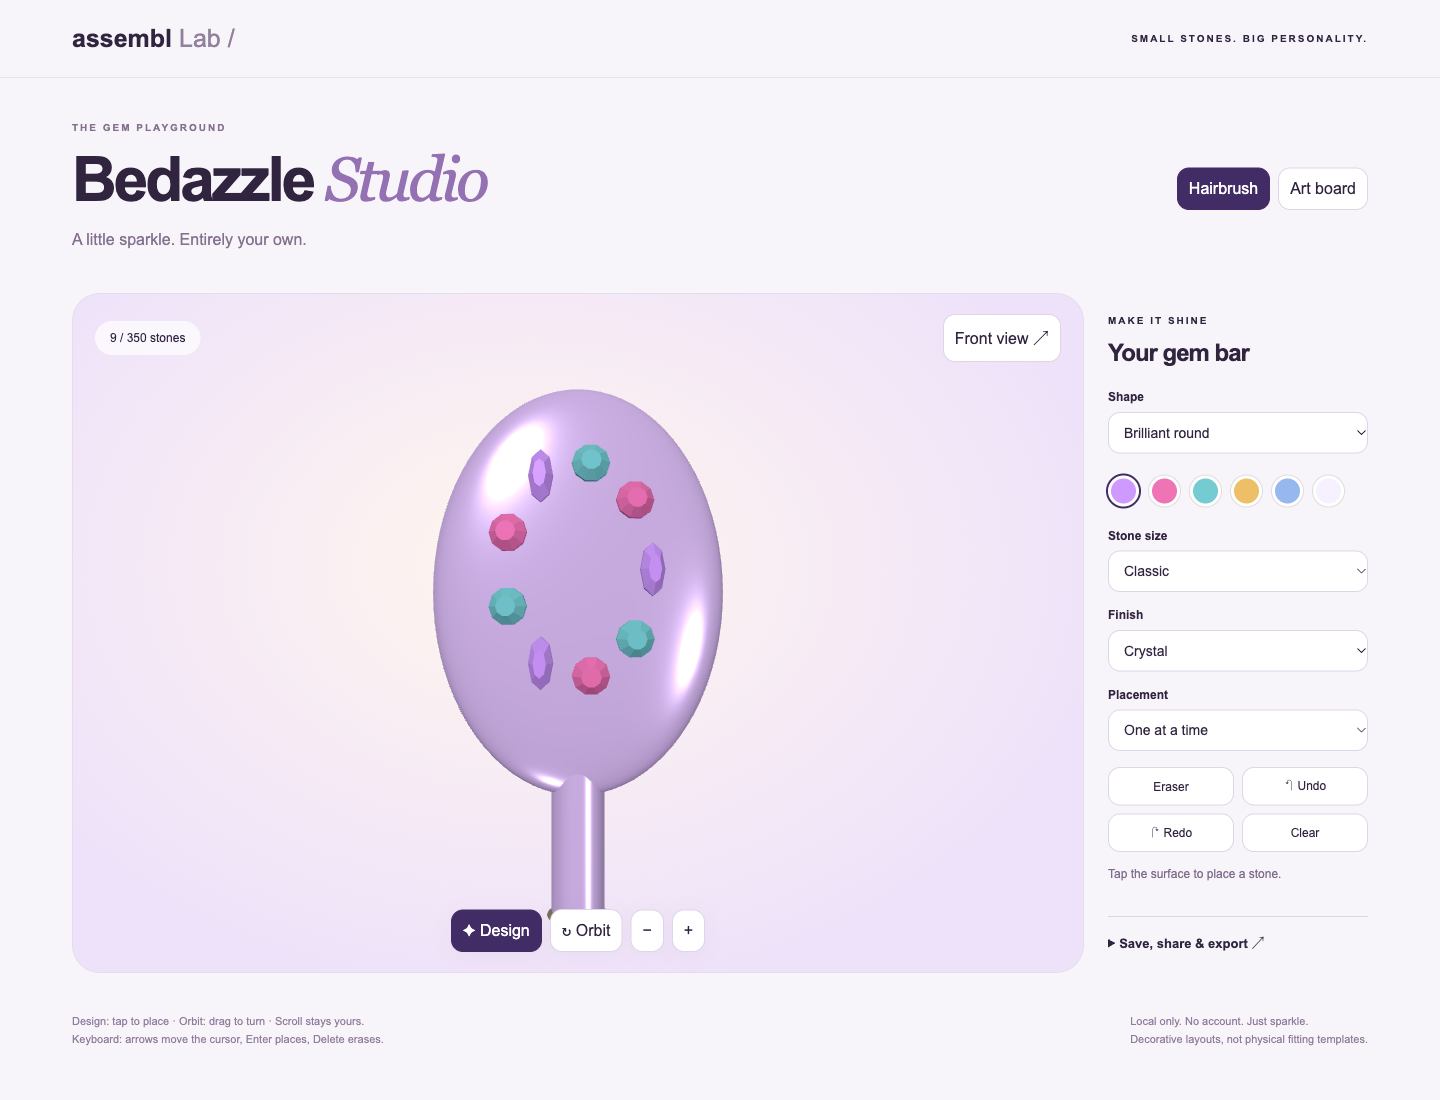
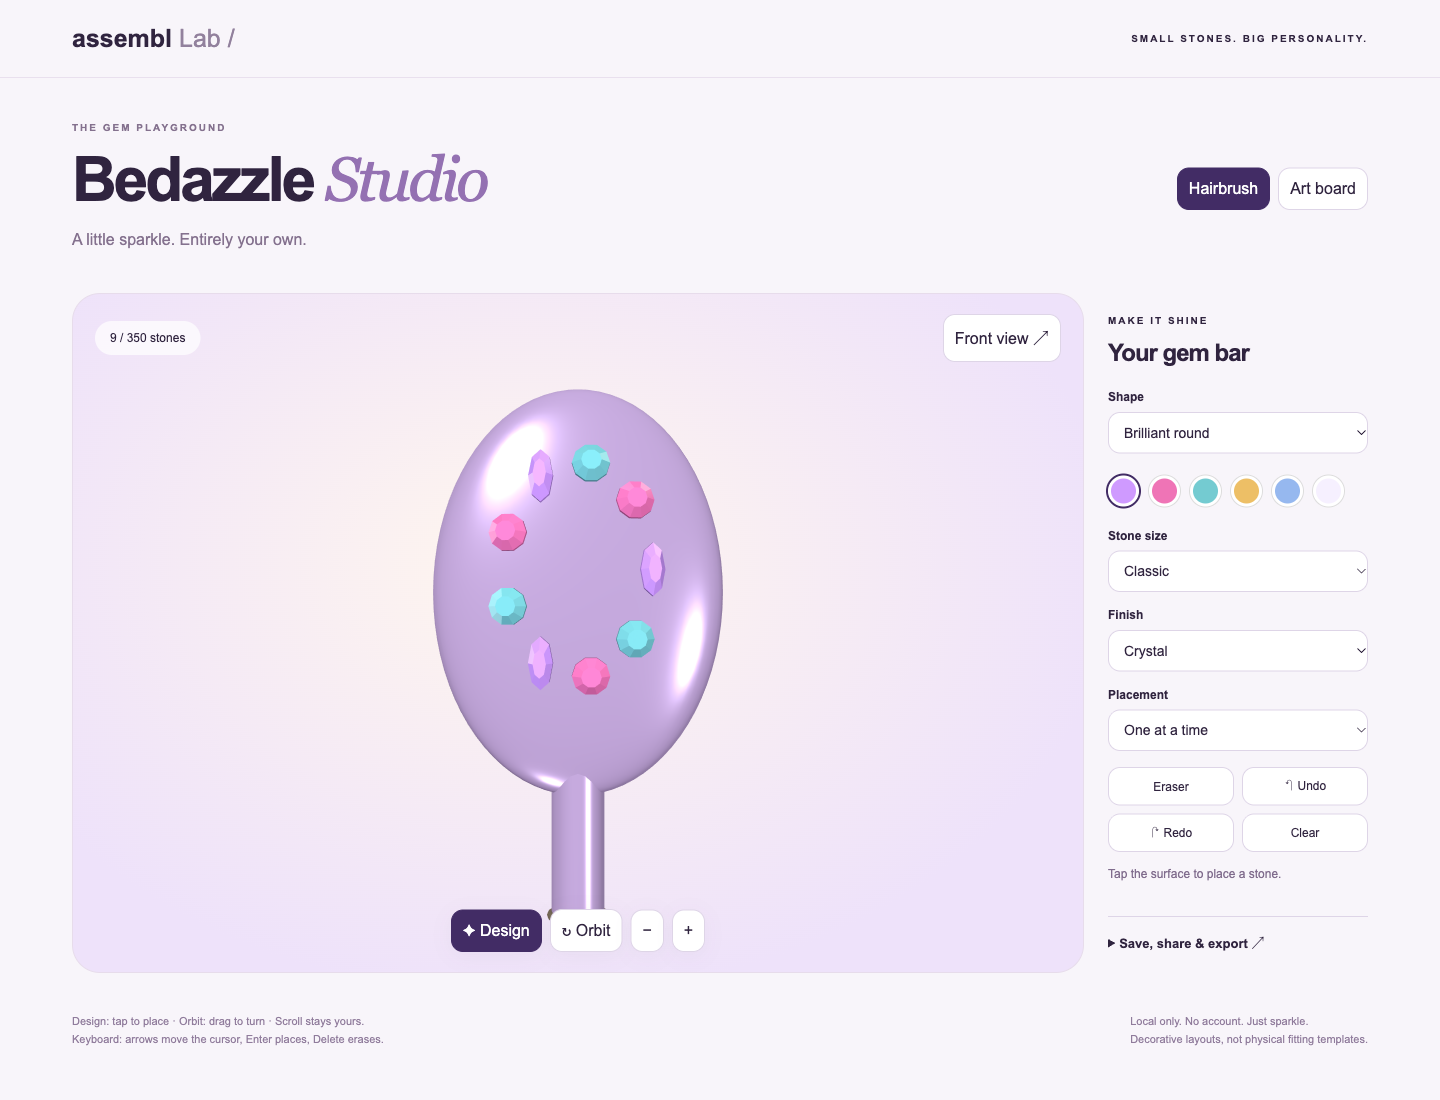
Constrain keyboard gems to size-aware surfaces and add corner regressions

Changed region(s): [[0.3438, 0.4945, 0.4688, 0.6491], [0.3438, 0.4018, 0.4688, 0.4945]]

diff --git a/study/bedazzle/studio.js b/study/bedazzle/studio.js
@@ -1,3 +1,4 @@
+import { footprint, insideBoundary, constrainCursor } from "./boundaries.js";
 import * as THREE from "three";
 import { OrbitControls } from "three/addons/controls/OrbitControls.js";
 const $ = (id) => document.getElementById(id),
@@ -43,6 +44,30 @@ for (const [x, y, z, p] of [
   l.position.set(x, y, z);
   scene.add(l);
 }
+// Small original studio-light reflection map, generated once and used only by crystals.
+// No animation, texture download, transmission pass or additional per-frame scene.
+const lightCanvas = document.createElement("canvas");
+lightCanvas.width = 256;
+lightCanvas.height = 128;
+const lightContext = lightCanvas.getContext("2d");
+lightContext.fillStyle = "#201a30";
+lightContext.fillRect(0, 0, 256, 128);
+for (const [x, y, w, h, tint] of [
+  [18, 18, 12, 76, "#ffffff"],
+  [80, 34, 48, 14, "#fff5df"],
+  [165, 14, 8, 88, "#ffffff"],
+  [210, 65, 25, 24, "#b8d8ff"],
+]) {
+  lightContext.fillStyle = tint;
+  lightContext.fillRect(x, y, w, h);
+}
+const lightTexture = new THREE.CanvasTexture(lightCanvas);
+lightTexture.mapping = THREE.EquirectangularReflectionMapping;
+lightTexture.colorSpace = THREE.SRGBColorSpace;
+const reflectionGenerator = new THREE.PMREMGenerator(renderer);
+const crystalReflection = reflectionGenerator.fromEquirectangular(lightTexture);
+lightTexture.dispose();
+reflectionGenerator.dispose();
 const controls = new OrbitControls(camera, renderer.domElement);
 controls.enablePan = false;
 controls.enableDamping = false;
@@ -83,15 +108,12 @@ function surface(x, y) {
   };
 }
 function fits(s, stones = state.stones) {
-  const r = s.size * (s.shape === "marquise" ? 1.4 : 1.1);
-  if (state.mode === "board") {
-    if (Math.abs(s.x) + r > 1.65 || Math.abs(s.y) + r > 2) return false;
-  } else if ((s.x / (1.25 - r)) ** 2 + (s.y / (1.75 - r)) ** 2 > 0.94)
-    return false;
+  const r = footprint(s.size, s.shape);
+  if (!insideBoundary(state.mode, s)) return false;
   return !stones.some(
     (t) =>
       Math.hypot(t.x - s.x, t.y - s.y) <
-      (t.size * (t.shape === "marquise" ? 1.4 : 1.1) + r) * 0.97,
+      (footprint(t.size, t.shape) + r) * 0.97,
   );
 }
 function gemGeometry(shape) {
@@ -200,13 +222,24 @@ function rebuild() {
   });
   for (const group of groups.values()) {
     const s = group[0][0],
-      mat = new THREE.MeshStandardMaterial({
-        color: s.color,
-        metalness:
-          s.finish === "metal" ? 0.85 : s.finish === "crystal" ? 0.4 : 0.05,
-        roughness: s.finish === "pearl" ? 0.65 : 0.16,
-        flatShading: true,
-      });
+      mat =
+        s.finish === "crystal"
+          ? new THREE.MeshPhysicalMaterial({
+              color: s.color,
+              metalness: 0.08,
+              roughness: 0.12,
+              clearcoat: 1,
+              clearcoatRoughness: 0.06,
+              envMap: crystalReflection.texture,
+              envMapIntensity: 1.15,
+              flatShading: true,
+            })
+          : new THREE.MeshStandardMaterial({
+              color: s.color,
+              metalness: s.finish === "metal" ? 0.85 : 0.05,
+              roughness: s.finish === "pearl" ? 0.65 : 0.16,
+              flatShading: true,
+            });
     const b = new THREE.InstancedMesh(geometries[s.shape], mat, group.length),
       o = new THREE.Object3D();
     b.userData.indices = [];
@@ -357,10 +390,15 @@ view.addEventListener("keydown", (e) => {
   if (e.key.startsWith("Arrow")) {
     cursor.x += e.key === "ArrowLeft" ? -0.1 : e.key === "ArrowRight" ? 0.1 : 0;
     cursor.y += e.key === "ArrowDown" ? -0.1 : e.key === "ArrowUp" ? 0.1 : 0;
-    cursor.x = Math.max(-1, Math.min(1, cursor.x));
-    cursor.y = Math.max(-1.4, Math.min(1.4, cursor.y));
-  } else if (e.key === "Enter") place(cursor.x, cursor.y);
-  else {
+  }
+  cursor = constrainCursor(
+    state.mode,
+    cursor,
+    Number($("size").value),
+    $("shape").value,
+  );
+  if (e.key === "Enter") place(cursor.x, cursor.y);
+  else if (e.key === "Delete" || e.key === "Backspace") {
     const i = state.stones.findIndex(
       (s) => Math.hypot(s.x - cursor.x, s.y - cursor.y) < 0.3,
     );
@@ -371,6 +409,11 @@ view.addEventListener("keydown", (e) => {
     }
   }
   const f = surface(cursor.x, cursor.y);
+  if (!f) {
+    target.visible = false;
+    render();
+    return;
+  }
   target.position.set(cursor.x, cursor.y, f.z + 0.2);
   target.quaternion.setFromUnitVectors(new THREE.Vector3(0, 0, 1), f.normal);
   target.visible = true;

diff --git a/study/bedazzle/boundaries.js b/study/bedazzle/boundaries.js
@@ -1,0 +1,28 @@
+// Conservative footprints shared by pointer placement, project validation and keyboard navigation.
+export function footprint(size, shape) {
+  return size * (shape === "marquise" ? 1.4 : 1.1);
+}
+export function insideBoundary(mode, stone) {
+  const r = footprint(stone.size, stone.shape);
+  return mode === "board"
+    ? Math.abs(stone.x) + r <= 1.65 && Math.abs(stone.y) + r <= 2
+    : (stone.x / (1.25 - r)) ** 2 + (stone.y / (1.75 - r)) ** 2 <= 0.94;
+}
+export function constrainCursor(mode, position, size, shape) {
+  const r = footprint(size, shape);
+  // A tiny inset avoids floating-point rejection of a cursor exactly on the boundary.
+  const inset = 1e-8;
+  if (mode === "board")
+    return {
+      x: Math.max(-1.65 + r + inset, Math.min(1.65 - r - inset, position.x)),
+      y: Math.max(-2 + r + inset, Math.min(2 - r - inset, position.y)),
+    };
+  const a = 1.25 - r,
+    b = 1.75 - r;
+  const distance = Math.hypot(position.x / a, position.y / b);
+  const scale =
+    distance > Math.sqrt(0.94) - inset
+      ? (Math.sqrt(0.94) - inset) / distance
+      : 1;
+  return { x: position.x * scale, y: position.y * scale };
+}

diff --git a/study/bedazzle/README.md b/study/bedazzle/README.md
@@ -43,3 +43,19 @@ Review screenshots in `evidence/`: `desktop.png`, `orbit.png`, `phone.png`, `boa
 ## Licences
 
 Three.js and its OrbitControls use the repository's existing MIT licence at `assets/vendor/three/LICENSE`. No new third-party library, model, image, font or trademarked artwork was added. All geometry, layout, material choices and starter placements are original procedural work for this instrument.
+
+## Review correction: keyboard edges and crystal finish
+
+The rectangular keyboard clamp could previously move the cursor outside the brush ellipse and dereference a missing surface. `boundaries.js` now shares conservative footprint/boundary logic with placement and projects the cursor onto a valid inset ellipse (or board rectangle) before every keyboard action. This also handles a board-to-brush or small-to-large stone change before Enter. The cursor renderer defensively handles a missing surface.
+
+Regression commands:
+
+```sh
+node --test study/bedazzle/tests/boundaries.test.mjs
+# With a Playwright CLI session already open on this route:
+playwright-cli -s=bedazzle-review run-code --filename study/bedazzle/tests/browser-boundaries.mjs
+```
+
+Results: 19 node regressions passed. Actual browser Right×20 → Up×20 → Enter placed one stone without error. The browser handler passed all 72 corner combinations (both surfaces, three sizes, three shapes, four corners) and a board-edge → brush/statement-marquise transition; zero page errors. Expanded corner coverage uses dispatched keyboard events; the original reproduction uses Playwright keyboard input.
+
+Crystal finish now uses a small 256×128 original procedural light-panel texture, prefiltered once, plus clearcoat. It uses no external assets, transmission pass, extra per-frame scene, continuous animation or new dependencies. Updated front/orbit/phone screenshots are in `evidence/`. A fresh transparent 1200×1200 PNG export passed after this material change; phone overflow remains false.
